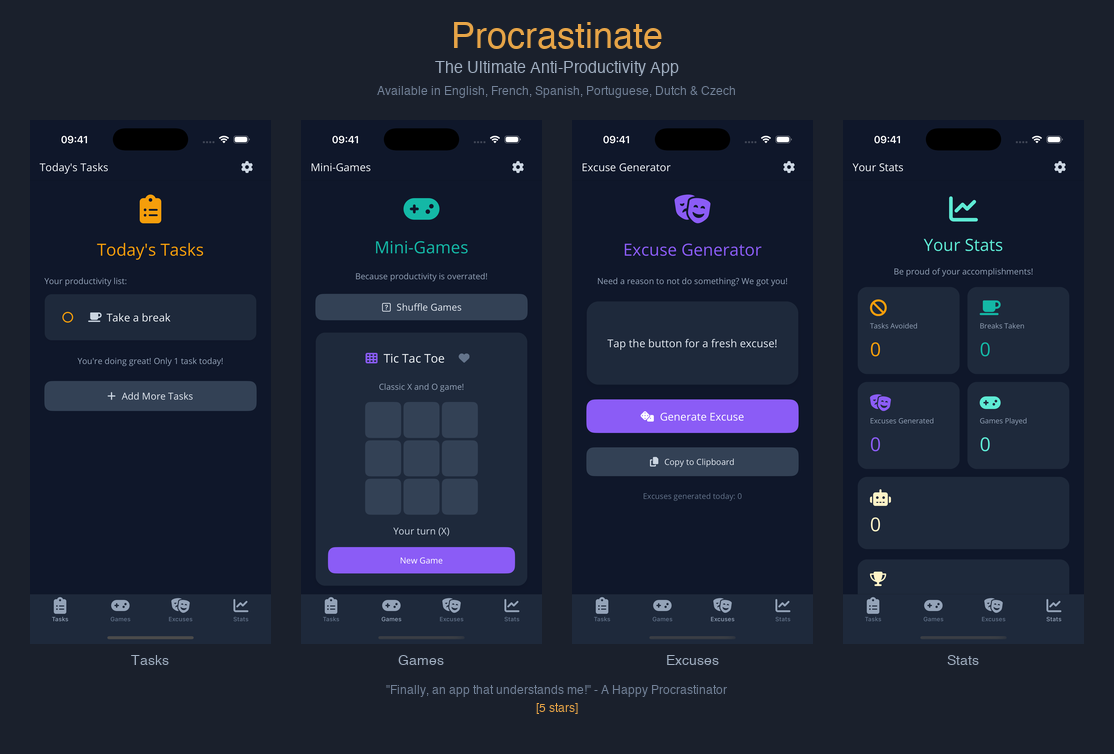
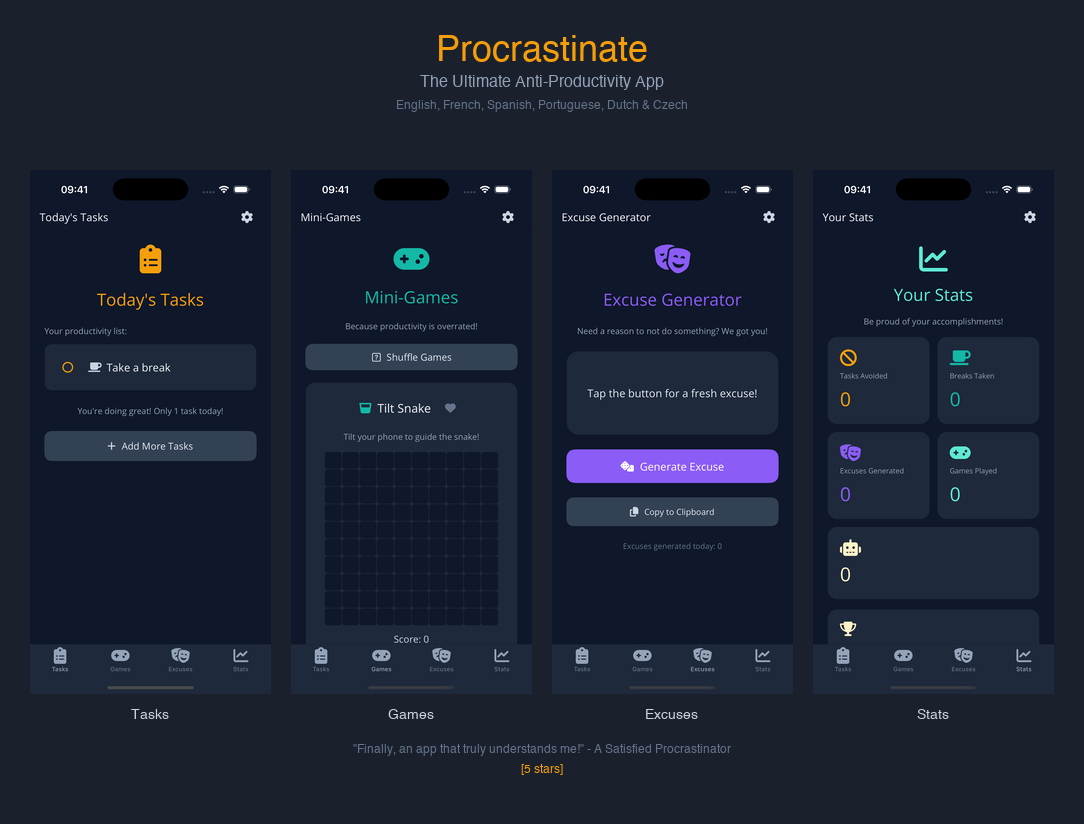
v1.0.0: Add version display in settings, update collage
- Set ApplicationDisplayVersion to 1.0.0
- Display version in Settings page footer
- Regenerate screenshots collage

diff --git a/Pages/SettingsPage.xaml b/Pages/SettingsPage.xaml
@@ -196,6 +196,13 @@
                    FontSize="13"
                    TextColor="{DynamicResource Gray500}"
                    HorizontalOptions="Center"/>
+
+            <!-- Version -->
+            <Label x:Name="VersionLabel"
+                   FontSize="12"
+                   TextColor="{DynamicResource Gray600}"
+                   HorizontalOptions="Center"
+                   Margin="0,20,0,0"/>
         </VerticalStackLayout>
     </ScrollView>
 </ContentPage>

diff --git a/Pages/SettingsPage.xaml.cs b/Pages/SettingsPage.xaml.cs
@@ -41,6 +41,11 @@ public partial class SettingsPage : ContentPage
         GroqApiKeyEntry.Text = Preferences.Get("GroqApiKey", "");
         GroqModelEntry.Text = Preferences.Get("GroqModel", "llama-3.3-70b-versatile");
         UpdateCloudSettingsVisibility();
+
+        // Display version
+        var version = AppInfo.VersionString;
+        var build = AppInfo.BuildString;
+        VersionLabel.Text = $"Procrastinate v{version} (build {build})";
     }
 
     private void OnLanguageChanged(object? sender, EventArgs e)
